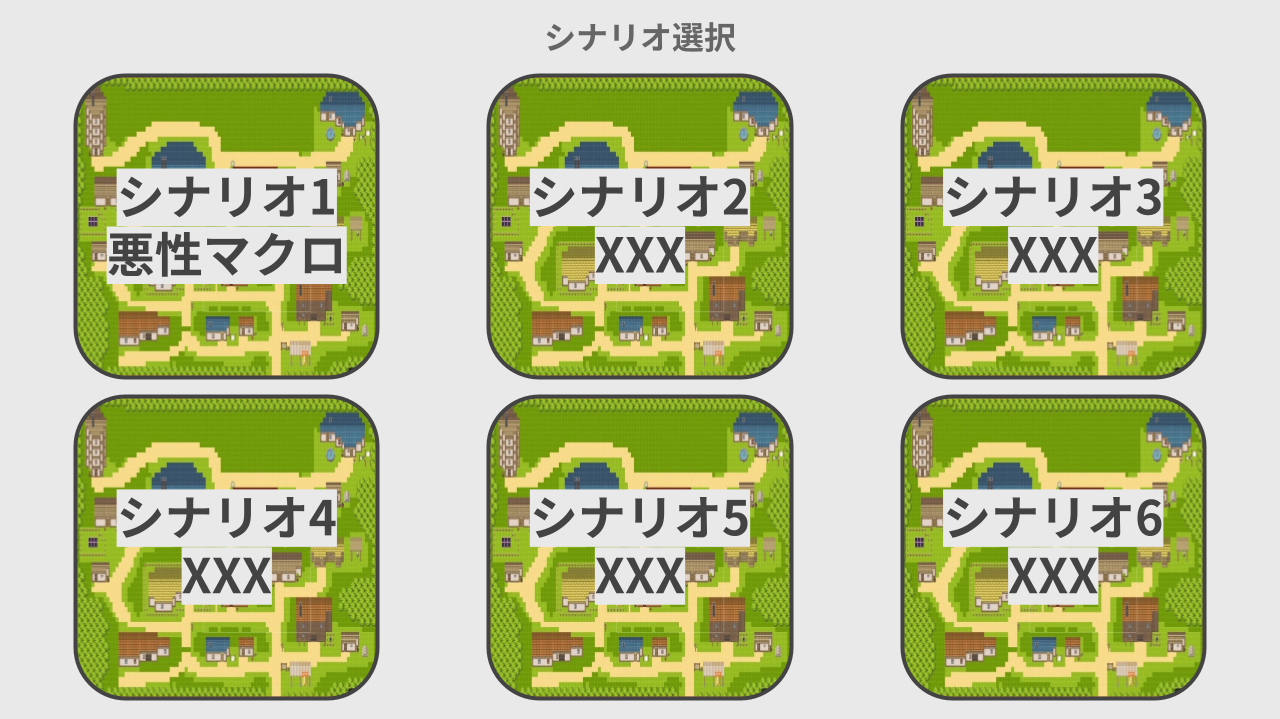
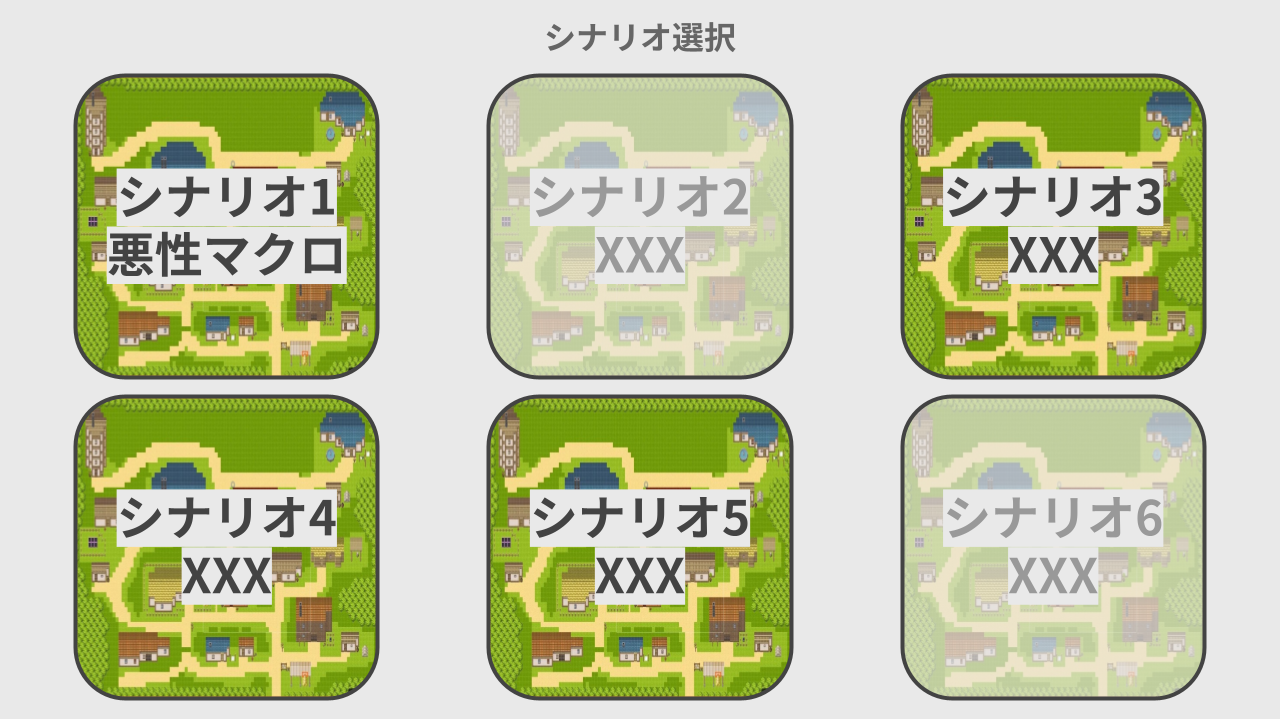
レビューをもとに修正

Changed region(s): [[0.6875, 0.5508, 0.9375, 0.9791], [0.375, 0.0918, 0.625, 0.5202]]

diff --git a/docs/game_flow.md b/docs/game_flow.md
@@ -34,6 +34,7 @@
 ### (4) シナリオ選択画面
 - `シナリオ[通し番号]`と`簡単なシナリオ説明`を入れたボタンにする
 - ボタンの背景はシナリオで使用するマップの画像とする
+- セーブデータを読み込み、クリア済みシナリオは背景をグレーにしてクリア済みであることを明示する
 
 画面イメージ
 ![scenario](img/scenario.png)
@@ -127,7 +128,7 @@
 - 盗まれた書類の持ち主との会話が、使用されたツールに関することに変化
 
 画面イメージ
-![ending](img/ending.png)
+![kaisetsu_1](img/hokoku_2_2.png)
 
 ### (16) エンディング画面
 - 犯人が捕まっている画像を出す
@@ -135,7 +136,7 @@
 - `Enter`を押すと、解説画面に遷移
 
 画面イメージ
-![kaisetsu_1](img/hokoku_2_2.png)
+![ending](img/ending.png)
 
 ### (17) 解説画面
 - 現実のシナリオを説明 
@@ -146,6 +147,9 @@
   3. 保護ビュー付きでExcelを開いた場面（「保護ビューを強調」）
   4. 保護ビューを解除する場面
   5. 保護ビューを解除した場面
+- 解説画面を閉じると自動でセーブ
+  - セーブは「シナリオをクリアしたか」を保存する
+  - シナリオ内の進捗のセーブは非対応
 
 画面イメージ
 ![ending](img/ending.png)
